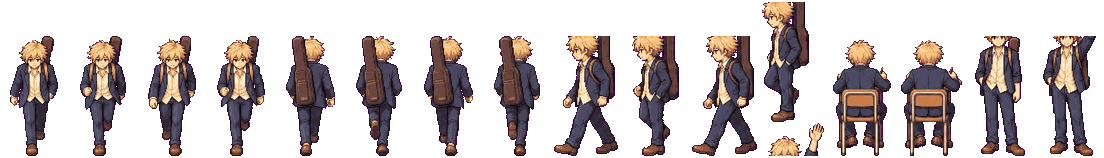
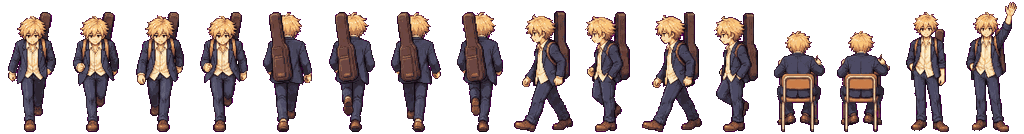
fix(agent-world): cut sprite sheets by connected figures, so a pose crossing a cell line stays whole

diff --git a/apps/agent-world/art/pipeline.py b/apps/agent-world/art/pipeline.py
@@ -1,7 +1,7 @@
 #!/usr/bin/env -S uv run --script
 # /// script
 # requires-python = ">=3.11"
-# dependencies = ["pillow", "numpy"]
+# dependencies = ["pillow", "numpy", "scipy"]
 # ///
 """Agent World art pipeline: generate art with Codex, then cut, scale, quantize, and check it.
 
@@ -28,6 +28,7 @@ from pathlib import Path
 
 import numpy as np
 from PIL import Image
+from scipy import ndimage
 
 HERE = Path(__file__).resolve().parent
 STANDING_HEIGHT = 120
@@ -128,9 +129,66 @@ def main_body(m):
     return m
 
 
+def figures(keep, rows, cols):
+    """The sheet's figures as masks in reading order, found as connected shapes rather than cut on grid lines.
+
+    Generated sheets often let a pose reach across a cell line (a raised hand under the row above, a guitar neck), so
+    cutting on bands or equal cells sliced heads off and pasted them under other frames. The rows * cols largest shapes
+    are the figures; every smaller shape (a hair strand, a sparkle) joins the figure whose box it is nearest. Returns
+    None when the largest shapes do not look like rows * cols figures, so the caller can fall back.
+    """
+    labels, count = ndimage.label(keep, structure=np.ones((3, 3)))
+    want = rows * cols
+    if count < want:
+        return None
+    sizes = np.bincount(labels.ravel())[1:]
+    order = np.argsort(sizes)[::-1]
+    seeds = order[:want] + 1
+    if sizes[seeds - 1].min() < 0.25 * np.median(sizes[seeds - 1]):
+        return None
+    boxes = ndimage.find_objects(labels)
+    centre = {
+        s: ((boxes[s - 1][0].start + boxes[s - 1][0].stop) / 2, (boxes[s - 1][1].start + boxes[s - 1][1].stop) / 2)
+        for s in seeds
+    }
+    by_y = sorted(seeds, key=lambda s: centre[s][0])
+    grid = [sorted(by_y[r * cols : (r + 1) * cols], key=lambda s: centre[s][1]) for r in range(rows)]
+    owner = {int(s): int(s) for s in seeds}
+    for small in order[want:] + 1:
+        sy, sx = boxes[small - 1]
+        cy, cx = (sy.start + sy.stop) / 2, (sx.start + sx.stop) / 2
+
+        def distance(s):
+            y, x = boxes[s - 1]
+            return max(y.start - cy, 0, cy - y.stop) + max(x.start - cx, 0, cx - x.stop)
+
+        nearest = min(seeds, key=distance)
+        # A hair strand or a prop sits at or inside its figure's box; a speck further out is noise, which would
+        # otherwise stretch the figure and lift it off the baseline.
+        if distance(nearest) <= 0.1 * (boxes[nearest - 1][0].stop - boxes[nearest - 1][0].start):
+            owner[int(small)] = int(nearest)
+    lookup = np.zeros(count + 1, dtype=np.int64)
+    for label_id, seed in owner.items():
+        lookup[label_id] = seed
+    owned = lookup[labels]
+    return [owned == s for row in grid for s in row]
+
+
 def cut(path, rows, cols, gap=6, body=False):
     rgb = np.array(Image.open(path).convert("RGB")).astype(int)
     keep = ~magenta_mask(rgb)
+    if rows and cols:
+        masks = figures(keep, rows, cols)
+        if masks is not None:
+            found = []
+            for m in masks:
+                ys, xs = np.where(m)
+                y0, y1, x0, x1 = ys.min(), ys.max() + 1, xs.min(), xs.max() + 1
+                rgba = np.zeros((y1 - y0, x1 - x0, 4), dtype=np.uint8)
+                rgba[..., :3] = rgb[y0:y1, x0:x1]
+                rgba[..., 3] = np.where(m[y0:y1, x0:x1], 255, 0)
+                found.append(Image.fromarray(rgba))
+            return found
     row_bands = bands(keep.sum(axis=1) > 2, 6, 20)
     if rows and len(row_bands) != rows:
         # A pose can reach into the gap (a raised hand), so fall back to the equal cells the sheet was drawn on.

diff --git a/apps/agent-world/art/tests/test_pipeline.py b/apps/agent-world/art/tests/test_pipeline.py
@@ -95,3 +95,17 @@ def test_a_piece_cut_to_the_image_edge_loses_its_pink_fringe(tmp_path):
         opaque = piece[..., 3] > 0
         pink = opaque & (piece[..., 0] > 110) & (piece[..., 2] > 90) & (piece[..., 1] < 60)
         assert not pink.any()
+
+
+def test_a_pose_reaching_into_the_row_above_stays_with_its_own_figure(tmp_path):
+    raw = tmp_path / "raw.png"
+    generated_sheet(raw, np.random.default_rng(5))
+    img = np.array(Image.open(raw))
+    # The last frame raises an arm up past the cell line, beside (not touching) the figure above it.
+    img[400:452, 355:360] = (90, 60, 40)
+    img[449:452, 349:360] = (90, 60, 40)
+    Image.fromarray(img).save(raw)
+    frames = pipeline.cut(raw, 4, 4)
+    assert len(frames) == 16
+    assert abs(frames[11].width - frames[10].width) <= 3  # nothing from the arm landed in the frame above
+    assert frames[15].height >= frames[14].height + 15  # the arm stayed whole with its own figure
